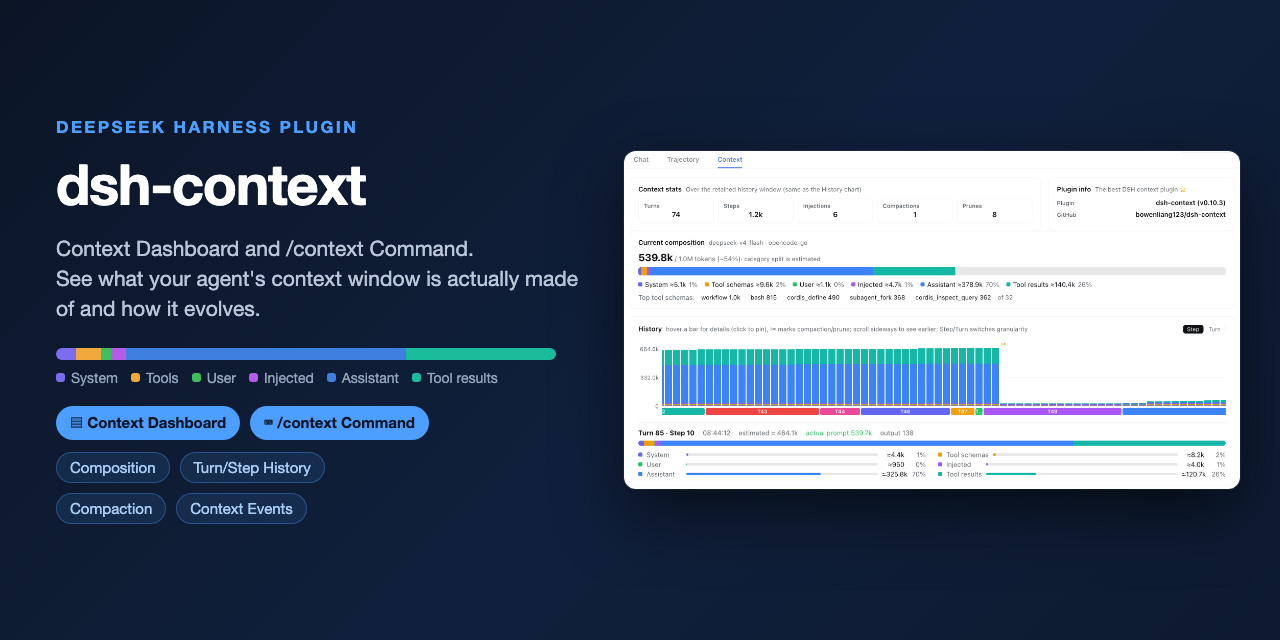
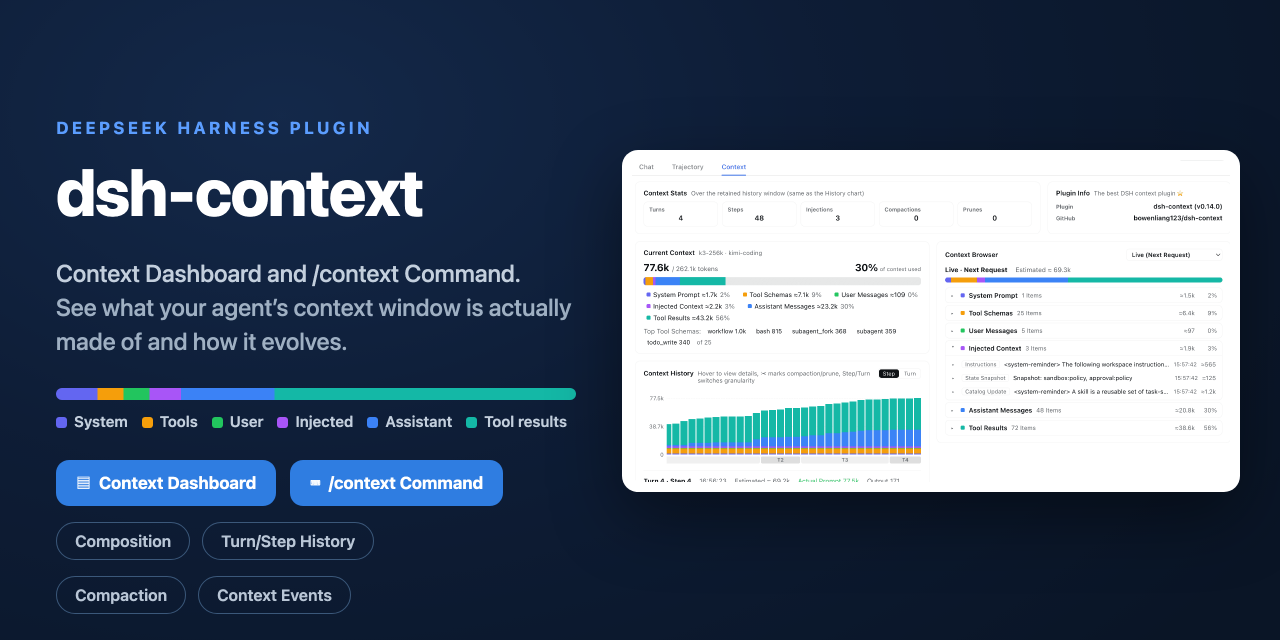
doc: refresh social preview with updated context-overview screenshot
Add docs/social-preview/ template + Node.js generator (playwright-core,
2x render + high-quality downsample) and register npm run social-preview.

diff --git a/docs/social-preview/social-preview.html b/docs/social-preview/social-preview.html
@@ -1,0 +1,153 @@
+<!DOCTYPE html>
+<html lang="en">
+<head>
+<meta charset="UTF-8" />
+<style>
+  * { margin: 0; padding: 0; box-sizing: border-box; }
+  html, body { width: 1280px; height: 640px; }
+  body {
+    font-family: -apple-system, BlinkMacSystemFont, "Segoe UI", Roboto, Helvetica, Arial, sans-serif;
+    background: radial-gradient(1200px 800px at 22% 18%, #14294a 0%, #0e1d36 45%, #0a1526 100%);
+    color: #fff;
+    overflow: hidden;
+    position: relative;
+  }
+
+  .left {
+    position: absolute;
+    left: 56px;
+    top: 118px;
+    width: 520px;
+  }
+  .eyebrow {
+    color: #5b9dff;
+    font-size: 17px;
+    font-weight: 700;
+    letter-spacing: 3.4px;
+  }
+  h1 {
+    margin-top: 14px;
+    font-size: 66px;
+    font-weight: 800;
+    letter-spacing: -1.5px;
+  }
+  .subtitle {
+    margin-top: 26px;
+    font-size: 24px;
+    line-height: 1.42;
+    color: #c3cfdd;
+    font-weight: 500;
+  }
+  .subtitle .dim { color: #9fb0c3; }
+
+  .bar {
+    margin-top: 30px;
+    height: 12px;
+    border-radius: 6px;
+    background: linear-gradient(90deg,
+      #6366f1 0%, #6366f1 8%,
+      #f59e0b 8%, #f59e0b 13%,
+      #22c55e 13%, #22c55e 18%,
+      #a855f7 18%, #a855f7 24%,
+      #3b82f6 24%, #3b82f6 42%,
+      #14b8a6 42%, #14b8a6 100%);
+  }
+  .legend {
+    margin-top: 12px;
+    display: flex;
+    flex-wrap: nowrap;
+    gap: 14px;
+    font-size: 15px;
+    color: #c3cfdd;
+    font-weight: 600;
+    white-space: nowrap;
+  }
+  .legend .dot {
+    display: inline-block;
+    width: 11px; height: 11px;
+    border-radius: 3px;
+    margin-right: 7px;
+    vertical-align: -1px;
+  }
+
+  .btn-row { margin-top: 30px; display: flex; gap: 14px; }
+  .btn {
+    font-size: 17px;
+    font-weight: 700;
+    padding: 13px 20px;
+    border-radius: 13px;
+    background: #2f7de1;
+    color: #fff;
+  }
+  .btn .ico { margin-right: 8px; font-weight: 400; }
+
+  .chip-row { margin-top: 16px; display: flex; gap: 12px; }
+  .chip {
+    font-size: 16px;
+    font-weight: 600;
+    color: #b9c6d6;
+    border: 1.5px solid #3b587a;
+    border-radius: 999px;
+    padding: 9px 18px;
+  }
+
+  .card {
+    position: absolute;
+    left: 622px;
+    top: 150px;
+    width: 618px;
+    background: #fff;
+    border-radius: 16px;
+    padding: 10px;
+    box-shadow: 0 24px 70px rgba(0, 0, 0, 0.45);
+  }
+  .shot {
+    border-radius: 9px;
+    overflow: hidden;
+    height: 322px;
+    background: #fff;
+  }
+  .shot img {
+    width: 100%;
+    display: block;
+    margin-top: -17px; /* hide the GUI title bar, keep the Chat/Trajectory/Context tabs */
+  }
+</style>
+</head>
+<body>
+  <div class="left">
+    <div class="eyebrow">DEEPSEEK HARNESS PLUGIN</div>
+    <h1>dsh-context</h1>
+    <div class="subtitle">
+      Context Dashboard and /context Command.<br/>
+      <span class="dim">See what your agent&rsquo;s context window is actually made of and how it evolves.</span>
+    </div>
+    <div class="bar"></div>
+    <div class="legend">
+      <span><span class="dot" style="background:#6366f1"></span>System</span>
+      <span><span class="dot" style="background:#f59e0b"></span>Tools</span>
+      <span><span class="dot" style="background:#22c55e"></span>User</span>
+      <span><span class="dot" style="background:#a855f7"></span>Injected</span>
+      <span><span class="dot" style="background:#3b82f6"></span>Assistant</span>
+      <span><span class="dot" style="background:#14b8a6"></span>Tool results</span>
+    </div>
+    <div class="btn-row">
+      <div class="btn"><span class="ico">▤</span>Context Dashboard</div>
+      <div class="btn"><span class="ico">⌨</span>/context Command</div>
+    </div>
+    <div class="chip-row">
+      <div class="chip">Composition</div>
+      <div class="chip">Turn / Step History</div>
+    </div>
+    <div class="chip-row">
+      <div class="chip">Compaction</div>
+      <div class="chip">Context Events</div>
+    </div>
+  </div>
+  <div class="card">
+    <div class="shot">
+      <img src="../context-overview.png" alt="Context Dashboard" />
+    </div>
+  </div>
+</body>
+</html>
